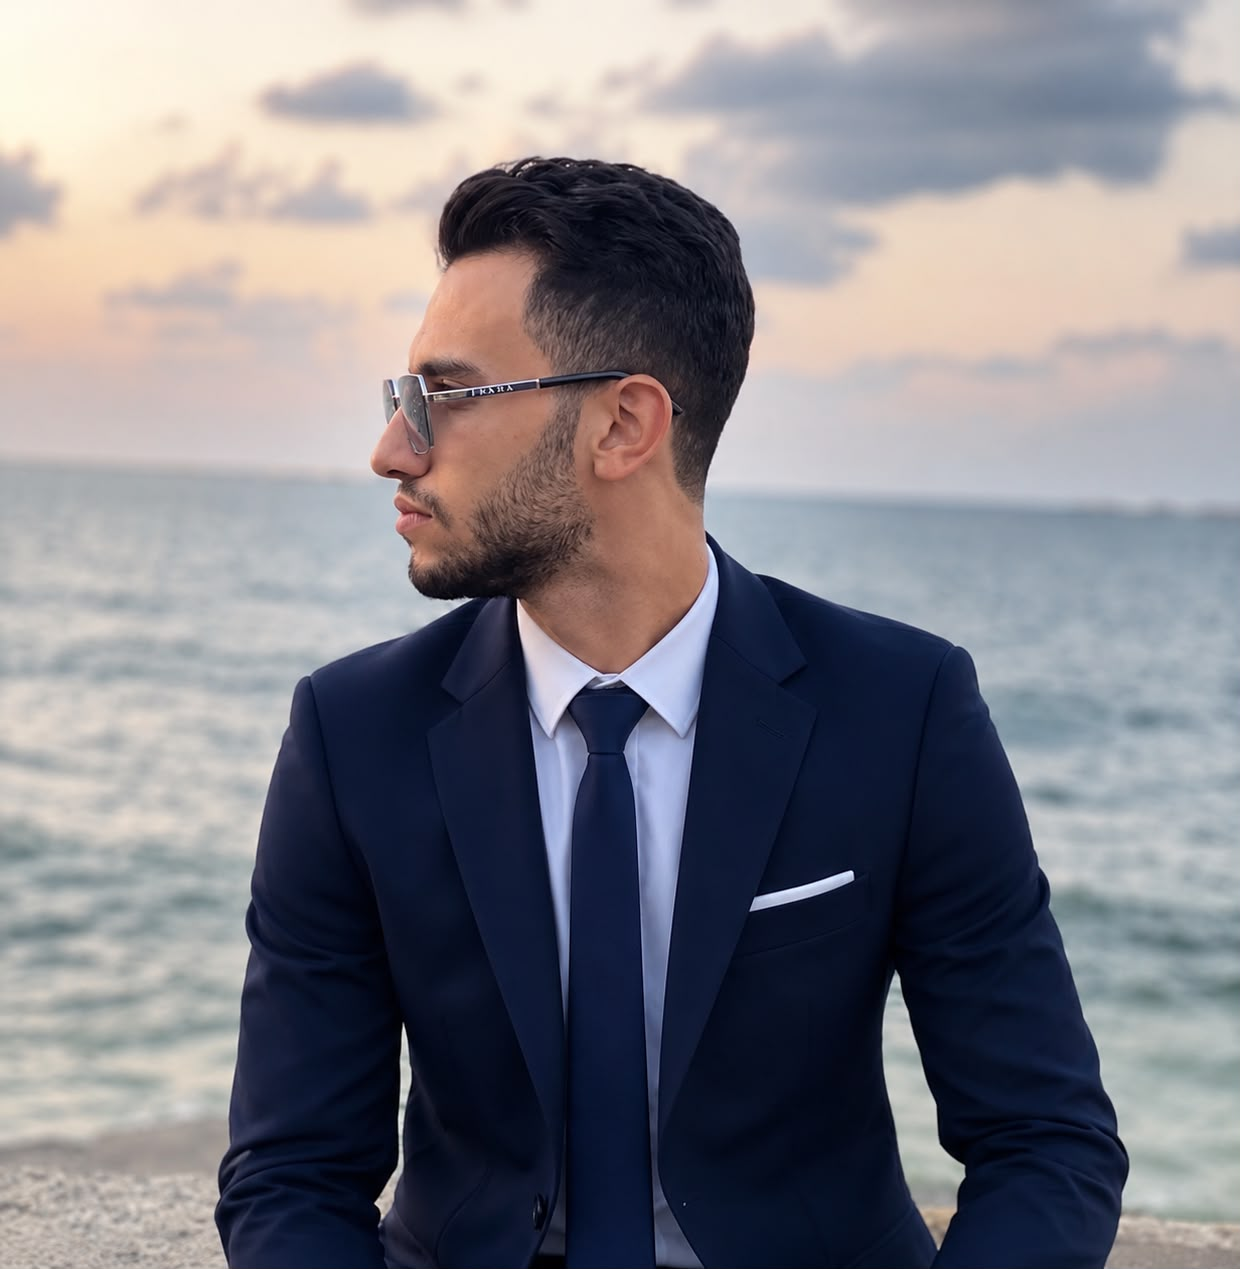
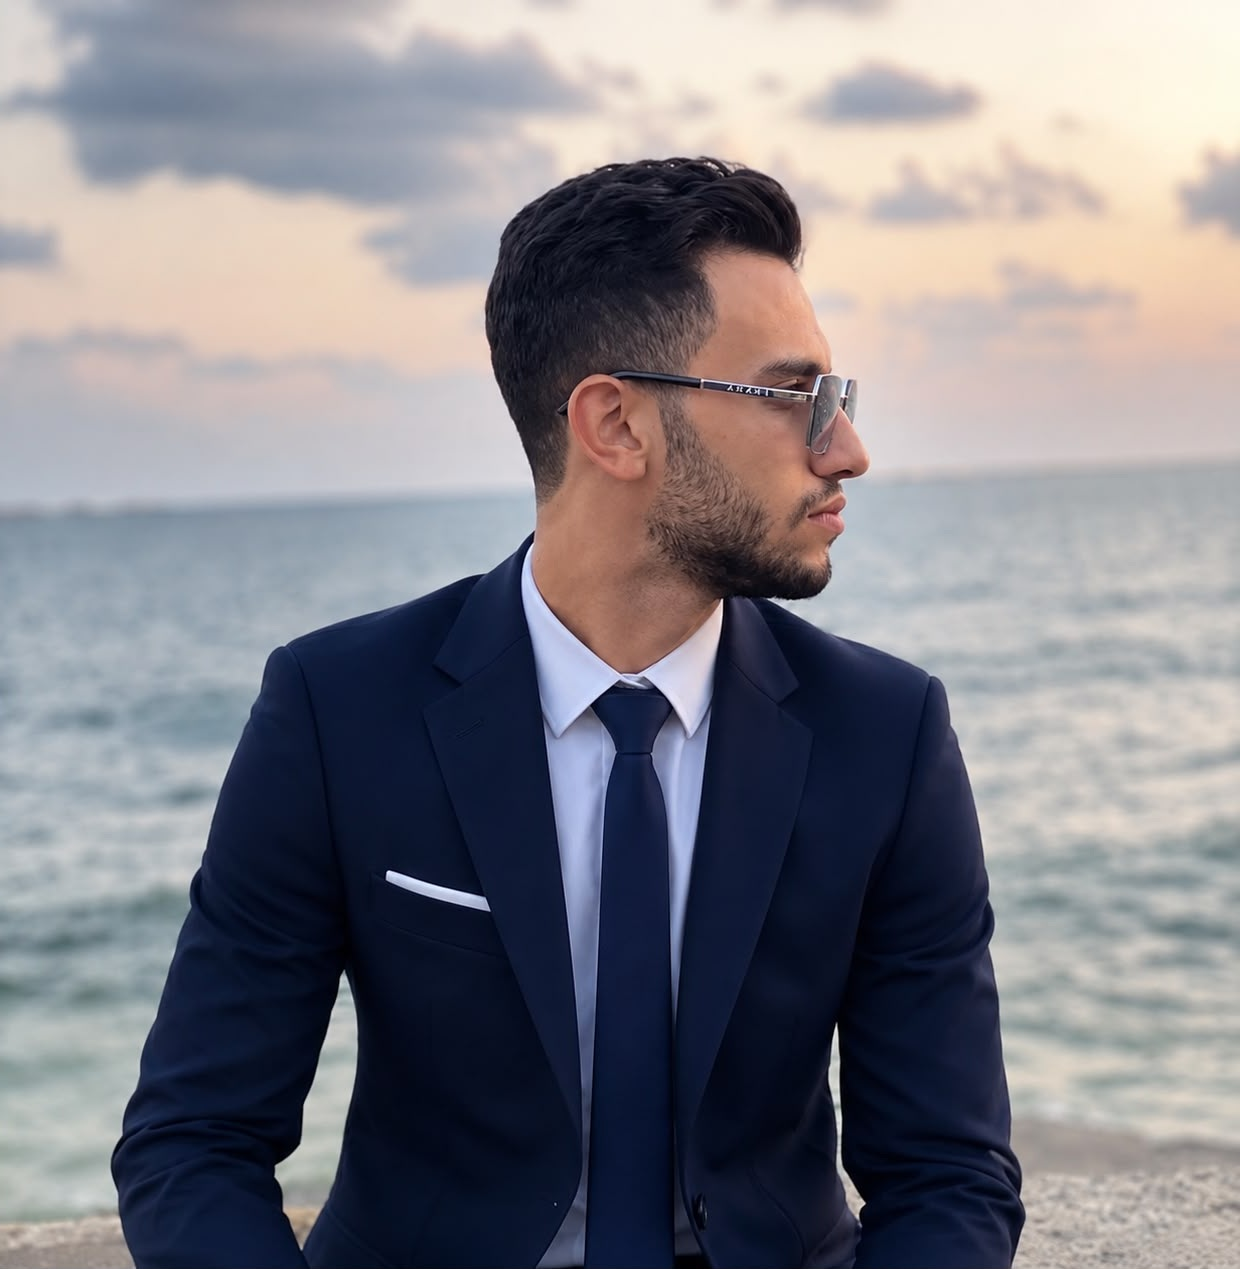
Faster card reveal (1s) and push all assets to GitHub

diff --git a/script.js b/script.js
@@ -169,7 +169,7 @@ tl
   .to(".orb", { opacity: 0, duration: 0.1 }, "reveal")
   .to("#flash", { opacity: 0, duration: 0.5 }, "reveal")
   .to("#palace-overlay", { background: "linear-gradient(to bottom, rgba(3,6,20,0.6), rgba(3,6,20,0.2), rgba(3,6,20,0.8))", duration: 1 }, "reveal")
-  .to("#invitation-card", { opacity: 1, y: "-50%", duration: 2 }, "reveal") // Was 3, now 2
+  .to("#invitation-card", { opacity: 1, y: "-50%", duration: 1 }, "reveal") // Fast reveal
   
   // 6. Buffer
   .to({}, { duration: 1.5 });
